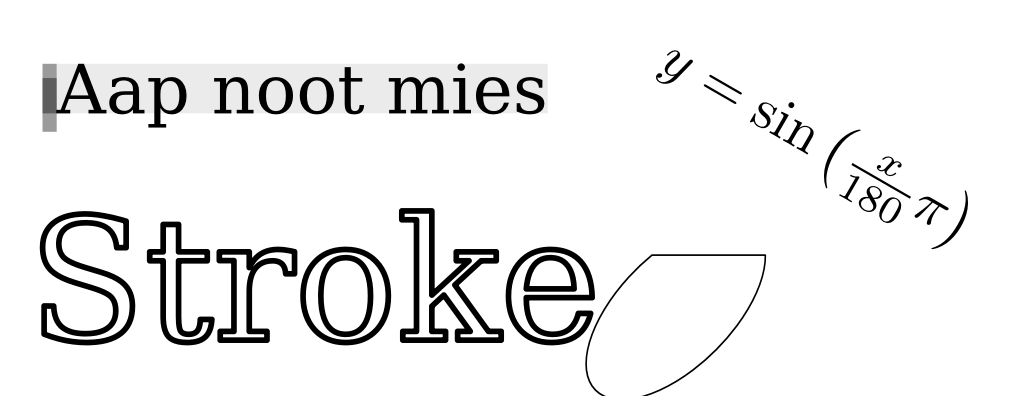
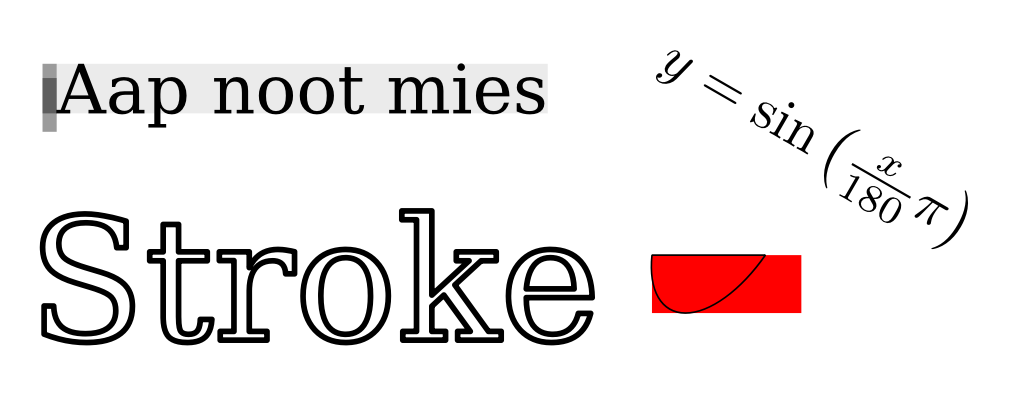
WIP: addings bounds calculation for ellipses

diff --git a/path_util.go b/path_util.go
@@ -59,6 +59,10 @@ func ellipseToCenter(x1, y1, rx, ry, rot float64, large, sweep bool, x2, y2 floa
 		theta = -theta
 	}
 	theta *= 180.0 / math.Pi
+	theta = math.Mod(theta, 360.0)
+	if theta < 0.0 {
+		theta += 360.0
+	}
 
 	deltaAcos := (ux*vx + uy*vy) / math.Sqrt((ux*ux+uy*uy)*(vx*vx+vy*vy))
 	deltaAcos = math.Min(1.0, math.Max(-1.0, deltaAcos))

diff --git a/example/example.go b/example/example.go
@@ -113,9 +113,9 @@ func Draw(c *canvas.C) {
 	c.SetColor(canvas.Black)
 	c.DrawPath(120, 5, latex)
 
-	rot := 45.0
+	rot := 30.0
 	w := 20.0
-	ellipse, err := canvas.ParseSVGPath(fmt.Sprintf("A10 20 %f 1 0 %f 0z", rot, w))
+	ellipse, err := canvas.ParseSVGPath(fmt.Sprintf("A10 20 %f 0 0 %f 0z", rot, w))
 	if err != nil {
 		panic(err)
 	}

diff --git a/path.go b/path.go
@@ -321,6 +321,7 @@ func (p *Path) Bounds() Rect {
 			if angle0 < tx+180.0 && tx+180.0 < angle1 {
 				xmax = math.Max(xmax, cx+dx)
 			}
+			fmt.Println(angle0, ty, ty+180.0, angle1, dy)
 			// y is inverted
 			if angle0 < ty && ty < angle1 {
 				ymax = math.Max(ymax, cy+dy)
